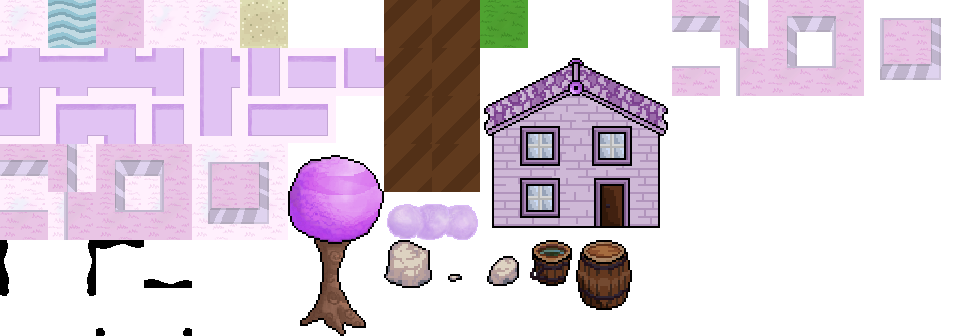
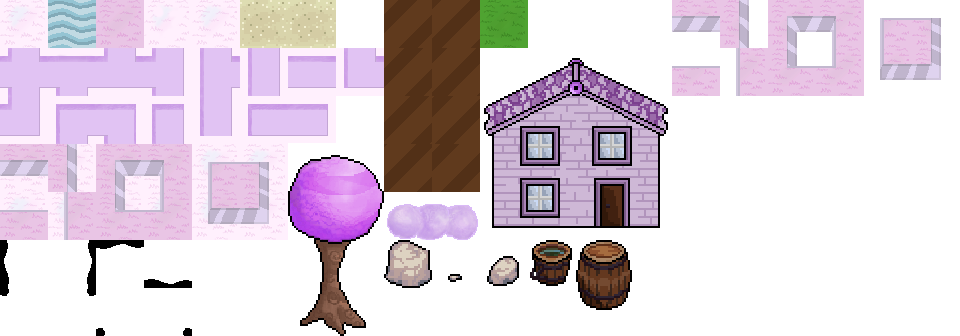
Created a solid sand tile

Changed region(s): [[0.2812, 0.0, 0.375, 0.1488]]

diff --git a/src/terrain/tile_image_loader.py b/src/terrain/tile_image_loader.py
@@ -95,6 +95,7 @@ dec_wall_9 = (864, 0, 48, 48)
 dec_wall_10 = (864, 48, 48, 48)
 dec_wall_11 = (912, 0, 48, 48)
 dec_wall_12 = (912, 48, 48, 48)
+solid_sand = (288, 0, 48, 48)
 
 
 # Indexing this array by a tiles' ID will
@@ -115,7 +116,8 @@ tiles = [generic_ground, blue_ground, path_1,
          medium_rock, bucket, barrel, sand,
          dec_wall_1, dec_wall_2, dec_wall_3, dec_wall_4,
          dec_wall_5, dec_wall_6, dec_wall_7, dec_wall_8,
-         dec_wall_9, dec_wall_10, dec_wall_11, dec_wall_12]
+         dec_wall_9, dec_wall_10, dec_wall_11, dec_wall_12,
+         solid_sand]
 images = {}
 
 sprite_sheet = None

diff --git a/src/terrain/tile_data.py b/src/terrain/tile_data.py
@@ -66,5 +66,6 @@ tile_colors = {15724527: "0000",  # Generic ground
                10027026: "0059",  # Dec Wall 9
                9175056: "0060",  # Dec Wall 10
                8388623: "0061",  # Dec Wall 11
-               7536653: "0062"  # Dec Wall 12
+               7536653: "0062",  # Dec Wall 12
+               7188415: "0063",  # Solid Sand
                }

diff --git a/src/terrain/tile_types.py b/src/terrain/tile_types.py
@@ -21,7 +21,8 @@ solid_tiles = [
     "0028",
     "0029",
     "0030",
-    "0044"
+    "0044",
+    "0063"
 ]
 
 animated_tiles = [
